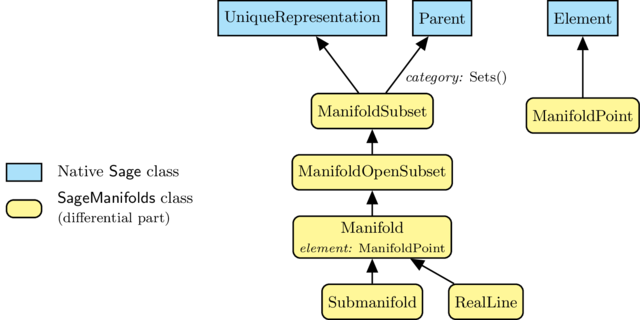
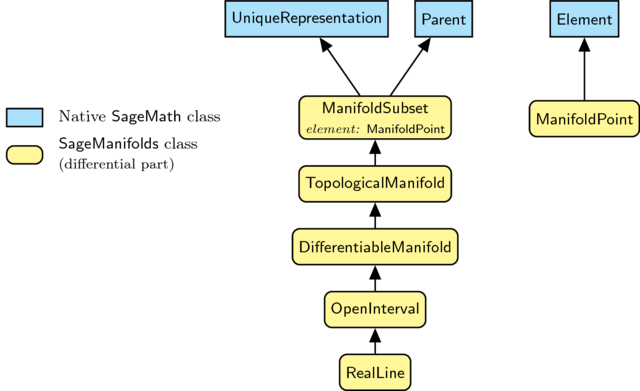
Update of class diagrams

diff --git a/class_diagrams.html b/class_diagrams.html
@@ -44,17 +44,17 @@
 
 <h2>SageManifolds Python classes</h2>
 
-<p><i>Version <strong>0.8</strong></i></p>
+<p><i>Version <strong>1.0</strong></i></p>
 
-<p>Here are the inheritance diagrams of some classes of SageManifolds.</p>
+<p>Here are the inheritance diagrams of some Python classes developed for the SageManifolds project.</p>
 
 <ul class="default">
-    <li>Topology classes:<br>
+    <li>Topology / manifold classes:<br>
         <div style="display: inline-block; margin-top:30px; margin-bottom:30px; width:100%;">
         <img src="images/domain_classes_tikz.png" alt="topology classes">
         </div>
     </li>
-    <li>Classes for scalar fields:<br>
+    <li>Classes for scalar fields (functions on manifolds):<br>
         <div style="display: inline-block; margin-top:30px; margin-bottom:30px; width:100%;">
         <img src="images/scalar_classes_tikz.png" alt="scalar field classes">
         </div>
